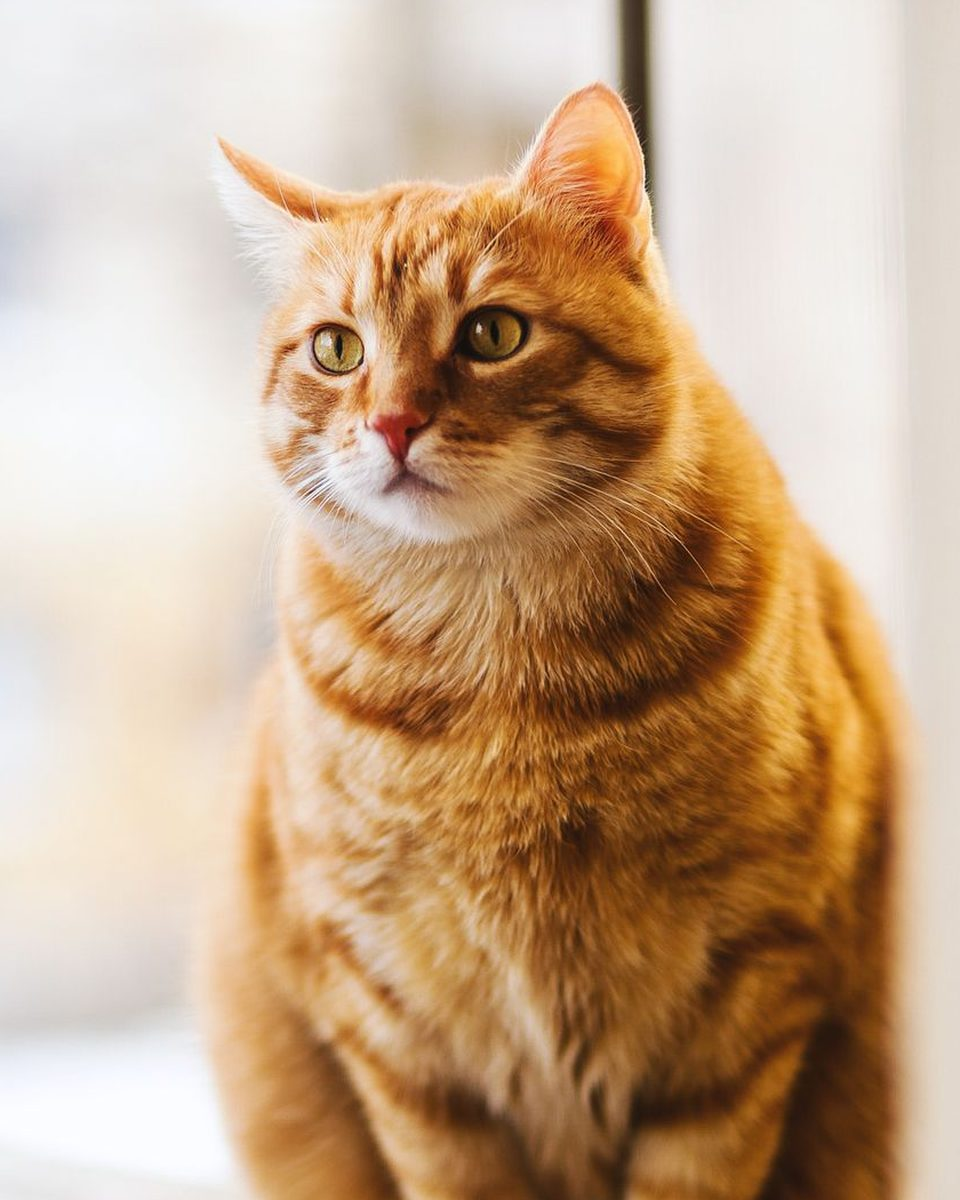
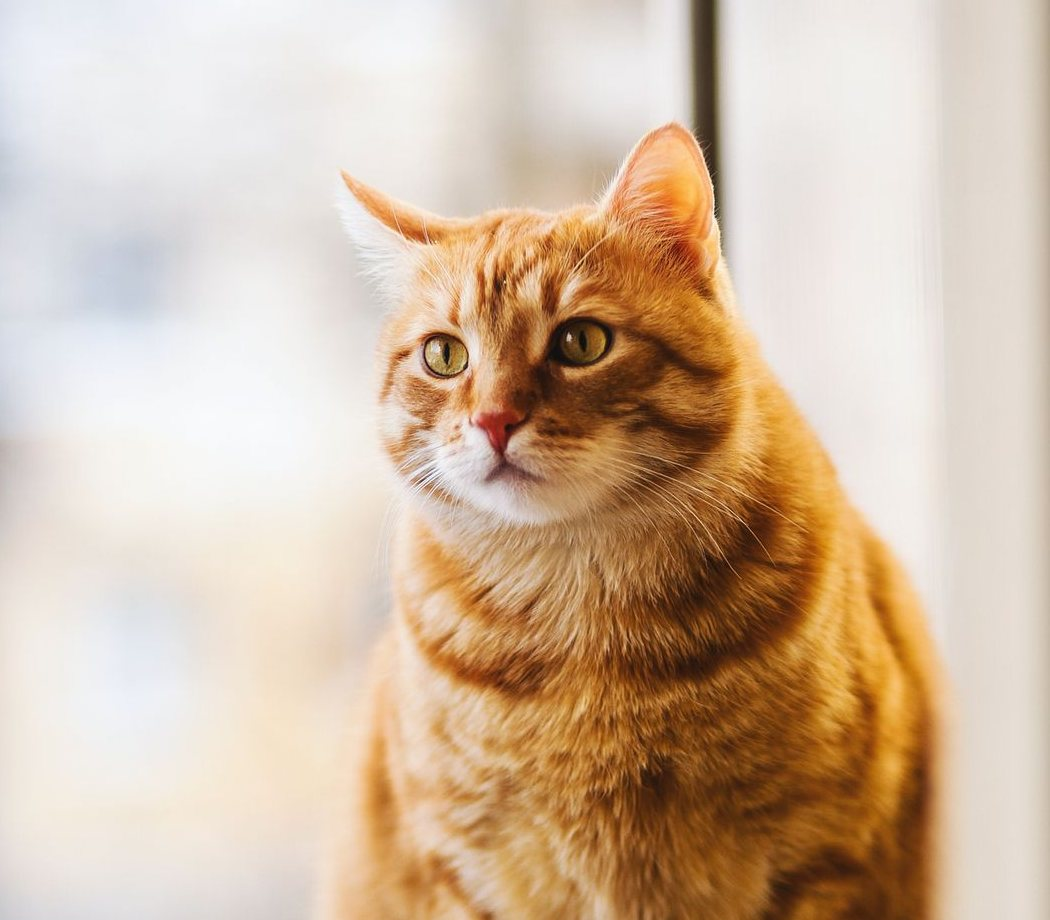
Bugün ekranı: tam genişlik fotoğraf hero, üstüne binen yüzey ve veri tile'ları
Referans pet uygulamalarındaki kompozisyon seviyesine çıkarma turu:
- Hero artık kart içindeki 112 px küçük resim değil, ekranın üst üçte birini kaplayan
  tam genişlik fotoğraf; isim/sayaç/bakım verenler fotoğrafın üstünde yüzmüyor, koyu panelde
- İçerik yüzeyi hero'nun üstüne 28 px binerek yükseliyor (kavisli sheet)
- Üç veri tile'ı eklendi: bugün kaydedilen, sıradaki bakım saati, bakım veren sayısı
- Birincil eylem artık başparmak bandında (639-687 px), fotoğraf kırpımı yüze göre ayarlandı

diff --git a/apps/mobile/src/components/pet-hero.tsx b/apps/mobile/src/components/pet-hero.tsx
@@ -2,12 +2,12 @@ import Ionicons from '@expo/vector-icons/Ionicons';
 import { Image } from 'expo-image';
 import { StyleSheet, View } from 'react-native';
 import { PersonBadgeStack } from './person-badge';
-import { BodyText, DisplayText, MetaText } from './typography';
+import { BodyStrongText, DisplayText, MetaText } from './typography';
 import { useAppTheme } from '@/design/theme';
 import { layout, radius, spacing, typography } from '@/design/tokens';
+import { standingEvents } from '@/domain/care';
 import { DEMO_PET_PHOTO } from '@/domain/types';
 import type { HouseholdMember, Pet, TaskOccurrence } from '@/domain/types';
-import { standingEvents } from '@/domain/care';
 
 /** Demo hanesinin paketlenmiş fotoğrafı. Kaynak ve lisans: assets/images/pets/KAYNAK.md */
 const DEMO_PHOTO = require('@/assets/images/pets/luna.jpg');
@@ -25,8 +25,8 @@ type Props = {
 };
 
 /**
- * Günün tek bakışlık özeti: hayvanın kendisi, bugünün sayacı, bakım verenler.
- * Metin fotoğrafın üstünde durmaz; renk bloğunun içinde durur (K-11).
+ * Ekranın açılışı hayvanın kendisidir: fotoğraf kenardan kenara, ekranın üst üçte birini
+ * kaplar. Metin fotoğrafın üstünde yüzmez; alttaki koyu panelin içinde durur (K-11).
  */
 export function PetHero({ pet, occurrences, members, colorIndexFor }: Props) {
   const theme = useAppTheme();
@@ -38,83 +38,65 @@ export function PetHero({ pet, occurrences, members, colorIndexFor }: Props) {
     : recorded === total
       ? `Bugünün ${total} bakımı da kaydedildi`
       : `Bugün ${recorded} / ${total} kaydedildi`;
-  const photoWidth = layout.heroPhoto;
 
   return (
     <View style={[styles.root, { backgroundColor: theme.heroPrimary }]}>
-      <RailTexture />
-
-      <View style={[styles.photoFrame, { backgroundColor: theme.photoPanel, borderRadius: radius.xl, width: photoWidth }]}>
-        {photo ? (
-          <Image accessibilityIgnoresInvertColors contentFit="cover" source={photo} style={styles.photo} transition={180} />
-        ) : (
-          <View style={styles.photoFallback}>
-            <Ionicons color={theme.onPhotoPanelMuted} name="paw-outline" size={layout.icon.xl} />
-            <MetaText style={{ color: theme.onPhotoPanelMuted }}>Fotoğraf yok</MetaText>
-          </View>
-        )}
-      </View>
-
-      <View style={styles.copy}>
-        <DisplayText numberOfLines={2} style={{ color: theme.onHeroPrimary }}>{pet.name}</DisplayText>
-        <BodyText numberOfLines={2} style={{ color: theme.onHeroPrimaryMuted }}>{summary}</BodyText>
-        {total > 0 ? <DayTrack occurrences={occurrences} /> : null}
-        {members.length > 0 ? (
-          <View style={styles.people}>
-            <PersonBadgeStack ringColor={theme.onHeroPrimary} people={members.map((member) => ({ colorIndex: colorIndexFor(member.id), id: member.id, initials: member.initials, name: member.name }))} size="sm" />
-            <MetaText numberOfLines={2} style={[styles.peopleNames, { color: theme.onHeroPrimaryMuted }]}>
-              {members.length === 1 ? 'yalnız siz bakıyorsunuz' : members.map((member) => member.name).join(' ve ')}
-            </MetaText>
-          </View>
-        ) : null}
-      </View>
-    </View>
-  );
-}
-
-/**
- * "Ortak Hat" dokusu: markanın zaman hattı motifi, hero zemininde sessiz bir katman olarak.
- * İkon değil çizgi-ve-düğüm; kenara kadar akar, metnin altına binmez.
- */
-function RailTexture() {
-  const theme = useAppTheme();
-  return (
-    <View aria-hidden pointerEvents="none" style={styles.texture}>
-      {[0, 1, 2, 3, 4].map((row) => (
-        <View key={row} style={styles.textureRow}>
-          <View style={[styles.textureNode, { borderColor: theme.onHeroPrimary }]} />
-          <View style={[styles.textureLine, { backgroundColor: theme.onHeroPrimary, width: 56 + row * 22 }]} />
+      {photo ? (
+        <Image accessibilityIgnoresInvertColors contentFit="cover" contentPosition="50% 35%" source={photo} style={StyleSheet.absoluteFill} transition={220} />
+      ) : (
+        <View style={[StyleSheet.absoluteFill, styles.fallback]}>
+          <Ionicons color={theme.onHeroPrimaryMuted} name="paw-outline" size={layout.icon.xl * 2} />
+          <MetaText style={{ color: theme.onHeroPrimaryMuted }}>{`${pet.name} için fotoğraf eklenmedi`}</MetaText>
         </View>
-      ))}
+      )}
+
+      <View style={styles.bottom}>
+        <View style={[styles.panel, { backgroundColor: theme.photoPanel }]}>
+          <View style={styles.panelHead}>
+            <DisplayText numberOfLines={1} style={[styles.name, { color: theme.onPhotoPanel }]}>{pet.name}</DisplayText>
+            {total > 0 ? <DayTrack occurrences={occurrences} /> : null}
+          </View>
+          <BodyStrongText numberOfLines={2} style={{ color: theme.onPhotoPanelMuted }}>{summary}</BodyStrongText>
+          {members.length > 0 ? (
+            <View style={styles.people}>
+              <PersonBadgeStack
+                people={members.map((member) => ({ colorIndex: colorIndexFor(member.id), id: member.id, initials: member.initials, name: member.name }))}
+                ringColor={theme.photoPanel}
+                size="sm"
+              />
+              <MetaText numberOfLines={2} style={[styles.peopleNames, { color: theme.onPhotoPanelMuted }]}>
+                {members.length === 1 ? 'bakımı yalnız siz kaydediyorsunuz' : members.map((member) => member.name).join(' ve ')}
+              </MetaText>
+            </View>
+          ) : null}
+        </View>
+      </View>
     </View>
   );
 }
 
-/** Günün her bakımı için bir dilim: kaydedilen dolu, bekleyen boş. Sayının görsel karşılığı. */
+/** Günün her bakımı için bir dilim: kaydedilen dolu, bekleyen boş. */
 function DayTrack({ occurrences }: { occurrences: TaskOccurrence[] }) {
   const theme = useAppTheme();
   return (
     <View aria-hidden pointerEvents="none" style={styles.track}>
       {occurrences.map((occurrence) => {
         const filled = standingEvents(occurrence.events).length > 0;
-        return <View key={occurrence.id} style={[styles.segment, { backgroundColor: filled ? theme.onHeroPrimary : 'transparent', borderColor: theme.onHeroPrimaryMuted }]} />;
+        return <View key={occurrence.id} style={[styles.segment, { backgroundColor: filled ? theme.onPhotoPanel : 'transparent', borderColor: theme.onPhotoPanelMuted }]} />;
       })}
     </View>
   );
 }
 
 const styles = StyleSheet.create({
-  root: { borderRadius: radius.xxl, flexDirection: 'row', gap: spacing.lg, minHeight: layout.heroMinHeight, overflow: 'hidden', padding: layout.cardPaddingLoose },
-  texture: { gap: spacing.sm, opacity: 0.14, position: 'absolute', right: -24, top: -6, transform: [{ rotate: '-14deg' }] },
-  textureRow: { alignItems: 'center', flexDirection: 'row', gap: spacing.xs },
-  textureNode: { borderRadius: radius.pill, borderWidth: 1.5, height: 7, width: 7 },
-  textureLine: { borderRadius: radius.pill, height: 1.5 },
-  photoFrame: { aspectRatio: 4 / 5, overflow: 'hidden' },
-  photo: { flex: 1 },
-  photoFallback: { alignItems: 'center', flex: 1, gap: spacing.xs, justifyContent: 'center' },
-  copy: { flex: 1, gap: spacing.xs, justifyContent: 'center', minWidth: 0 },
-  track: { flexDirection: 'row', gap: spacing.xs, marginTop: spacing.xs },
-  segment: { borderRadius: radius.pill, borderWidth: 1, flex: 1, maxWidth: 48, minHeight: 6 },
-  people: { alignItems: 'center', flexDirection: 'row', flexWrap: 'wrap', gap: spacing.sm, marginTop: spacing.xs },
+  root: { height: layout.heroHeight, justifyContent: 'flex-end', overflow: 'hidden' },
+  fallback: { alignItems: 'center', gap: spacing.sm, justifyContent: 'center' },
+  bottom: { paddingBottom: spacing.xxl + spacing.md, paddingHorizontal: spacing.md },
+  panel: { borderRadius: radius.xl, gap: spacing.xs, padding: layout.cardPadding },
+  panelHead: { alignItems: 'center', flexDirection: 'row', gap: spacing.md, justifyContent: 'space-between' },
+  name: { flexShrink: 1 },
+  track: { flexDirection: 'row', gap: spacing.xs, width: 72 },
+  segment: { borderRadius: radius.pill, borderWidth: 1, flex: 1, minHeight: 6 },
+  people: { alignItems: 'center', flexDirection: 'row', flexWrap: 'wrap', gap: spacing.sm, marginTop: spacing.xxs },
   peopleNames: { ...typography.meta, flexShrink: 1 },
 });

diff --git a/apps/mobile/src/app/(tabs)/index.tsx b/apps/mobile/src/app/(tabs)/index.tsx
@@ -3,12 +3,13 @@ import { useEffect, useMemo, useRef, useState } from 'react';
 import { Pressable, RefreshControl, StyleSheet, Switch, Text, View } from 'react-native';
 import Ionicons from '@expo/vector-icons/Ionicons';
 import { PetHero } from '@/components/pet-hero';
+import { StatTiles } from '@/components/stat-tiles';
 import { WeekTrack } from '@/components/week-track';
 import { Screen, ScreenLoading } from '@/components/screen';
 import { TaskCard } from '@/components/task-card';
 import { BodyText, MetaText } from '@/components/typography';
 import { assignPersonColors, layout, palette, radius, spacing, typography } from '@/design/tokens';
-import { standingEvents } from '@/domain/care';
+import { formatClock, standingEvents } from '@/domain/care';
 import { currentOccurrences, dayKeyInTimeZone } from '@/domain/schedule';
 import { useApp } from '@/state/app-context';
 import { useRuntime } from '@/state/runtime-context';
@@ -41,8 +42,11 @@ export default function TodayScreen() {
   const refresh = async () => { setRefreshing(true); try { await refreshSnapshot(); } finally { setRefreshing(false); } };
 
   return <Screen refreshControl={<RefreshControl colors={[palette.primary]} onRefresh={() => void refresh()} refreshing={refreshing} tintColor={palette.primary} />}>
-    <PetHero colorIndexFor={(memberId) => colors[memberId] ?? 0} members={snapshot.members} occurrences={today} pet={snapshot.pet} />
+    <View style={styles.bleed}>
+      <PetHero colorIndexFor={(memberId) => colors[memberId] ?? 0} members={snapshot.members} occurrences={today} pet={snapshot.pet} />
+    </View>
 
+    <View style={styles.sheet}>
     <View style={styles.status}>
       <View style={styles.statusRow}>
         <MetaText numberOfLines={1} style={styles.statusCopy}>{connection}</MetaText>
@@ -56,7 +60,11 @@ export default function TodayScreen() {
       <MetaText numberOfLines={1} style={styles.date}>{date} · {planTimezone}</MetaText>
     </View>
 
-    <WeekTrack snapshot={snapshot} />
+    <StatTiles tiles={[
+      { icon: 'checkmark-done', value: `${today.filter((occurrence) => standingEvents(occurrence.events).length > 0).length}/${today.length || 0}`, label: 'Bugün kaydedilen' },
+      { icon: 'time-outline', value: focus ? formatClock(focus.scheduledAt) : '—', label: focus ? 'Sıradaki bakım' : 'Bugün tamam' },
+      { icon: 'people-outline', value: `${snapshot.members.length}`, label: 'Bakım veren' },
+    ]} />
 
     {today.length === 0 ? (
       <View style={styles.empty}>
@@ -72,6 +80,8 @@ export default function TodayScreen() {
       </View>
     )}
 
+    <WeekTrack snapshot={snapshot} />
+
     {canSeeOffer ? (
       <Pressable accessibilityRole="button" onPress={() => router.push('/paywall')} style={({ pressed }) => [styles.offer, pressed && styles.offerPressed]}>
         <View style={styles.offerCopy}>
@@ -81,11 +91,14 @@ export default function TodayScreen() {
         <Ionicons color={palette.brass} name="arrow-forward" size={layout.icon.lg} />
       </Pressable>
     ) : null}
+    </View>
   </Screen>;
 }
 
 const styles = StyleSheet.create({
-  status: { gap: spacing.xxs, marginTop: layout.blockGap },
+  bleed: { marginHorizontal: -layout.gutter, marginTop: -layout.gutter },
+  sheet: { backgroundColor: palette.canvas, borderTopLeftRadius: radius.xxl, borderTopRightRadius: radius.xxl, marginHorizontal: -layout.gutter, marginTop: -radius.xxl, paddingHorizontal: layout.gutter, paddingTop: spacing.md },
+  status: { gap: spacing.xxs },
   statusRow: { alignItems: 'center', flexDirection: 'row', gap: spacing.md, justifyContent: 'space-between', minHeight: layout.rowMinHeight },
   statusCopy: { flex: 1 },
   date: { textTransform: 'capitalize' },

diff --git a/apps/mobile/src/components/stat-tiles.tsx b/apps/mobile/src/components/stat-tiles.tsx
@@ -1,0 +1,37 @@
+import Ionicons from '@expo/vector-icons/Ionicons';
+import { StyleSheet, Text, View } from 'react-native';
+import { MetaText } from './typography';
+import { useAppTheme } from '@/design/theme';
+import { layout, radius, spacing, typography } from '@/design/tokens';
+
+export type Tile = { icon: keyof typeof Ionicons.glyphMap; value: string; unit?: string; label: string };
+
+/** Günün üç sayısı: okunacak veri, dekorasyon değil. */
+export function StatTiles({ tiles }: { tiles: Tile[] }) {
+  const theme = useAppTheme();
+  return (
+    <View style={styles.row}>
+      {tiles.map((tile) => (
+        <View key={tile.label} style={[styles.tile, { backgroundColor: theme.surface, borderColor: theme.line }]}>
+          <View style={[styles.icon, { backgroundColor: theme.primarySoft }]}>
+            <Ionicons color={theme.onPrimarySoft} name={tile.icon} size={layout.icon.md} />
+          </View>
+          <View style={styles.value}>
+            <Text style={[styles.number, { color: theme.ink }]}>{tile.value}</Text>
+            {tile.unit ? <MetaText style={styles.unit}>{tile.unit}</MetaText> : null}
+          </View>
+          <MetaText numberOfLines={2}>{tile.label}</MetaText>
+        </View>
+      ))}
+    </View>
+  );
+}
+
+const styles = StyleSheet.create({
+  row: { flexDirection: 'row', gap: spacing.sm, marginTop: layout.blockGap },
+  tile: { borderRadius: radius.lg, borderWidth: 1, flex: 1, gap: spacing.xs, padding: layout.cardPadding },
+  icon: { alignItems: 'center', borderRadius: radius.pill, height: 30, justifyContent: 'center', width: 30 },
+  value: { alignItems: 'baseline', flexDirection: 'row', gap: spacing.xxs },
+  number: { fontSize: 22, fontVariant: ['tabular-nums'], fontWeight: typography.title.fontWeight, letterSpacing: -0.3, lineHeight: 26 },
+  unit: { lineHeight: 18 },
+});

diff --git a/apps/mobile/src/design/tokens.ts b/apps/mobile/src/design/tokens.ts
@@ -64,6 +64,8 @@ export const layout = {
   scrollClearance: 148,
   /** Hero / renk bloğu ve fotoğraf kartı ölçüleri. */
   heroMinHeight: 168,
+  /** Tam genişlik hero: fotoğraf ekranın üst üçte birini kaplar. */
+  heroHeight: 320,
   heroPhoto: 112,
   photoRatio: 4 / 3,
   /** Yüzen pill navigasyon: ekran kenarından boşluk ve yükseklik. */

diff --git a/apps/mobile/assets/images/pets/KAYNAK.md b/apps/mobile/assets/images/pets/KAYNAK.md
@@ -11,7 +11,8 @@ uygulamaya girmez.
 - **Lisans:** Pexels License — ücretsiz kullanım, ticari kullanım serbest, atıf zorunlu değil.
   (Atıf zorunlu olmasa da bu dosyada kayıt altına alınmıştır.)
 - **İndirme:** 19 Eylül 2026, özgün 1200×1800 JPEG.
-- **İşlem:** `luna.jpg` 4:5 hero kırpımı (960×1200, kalite 82, progressive); kırpma kutusu
-  (300, 380, 1140, 1430) — sağdaki koyu pencere kenarı bilinçli olarak dışarıda bırakıldı.
+- **İşlem:** `luna.jpg` tam genişlik hero kırpımı (1050×920, kalite 84, progressive); kırpma
+  kutusu (150, 330, 1200, 1250). Kedinin başı üst yarıda kalacak şekilde seçildi; ekranda
+  `contentPosition="50% 35%"` ile konumlanır.
 - **Kullanım:** yalnız yerel demo verisinde Luna'nın profil görseli olarak. Gerçek hanelerde
   kullanıcı kendi fotoğrafını yükler; bu dosya production kullanıcı verisine kopyalanmaz.
